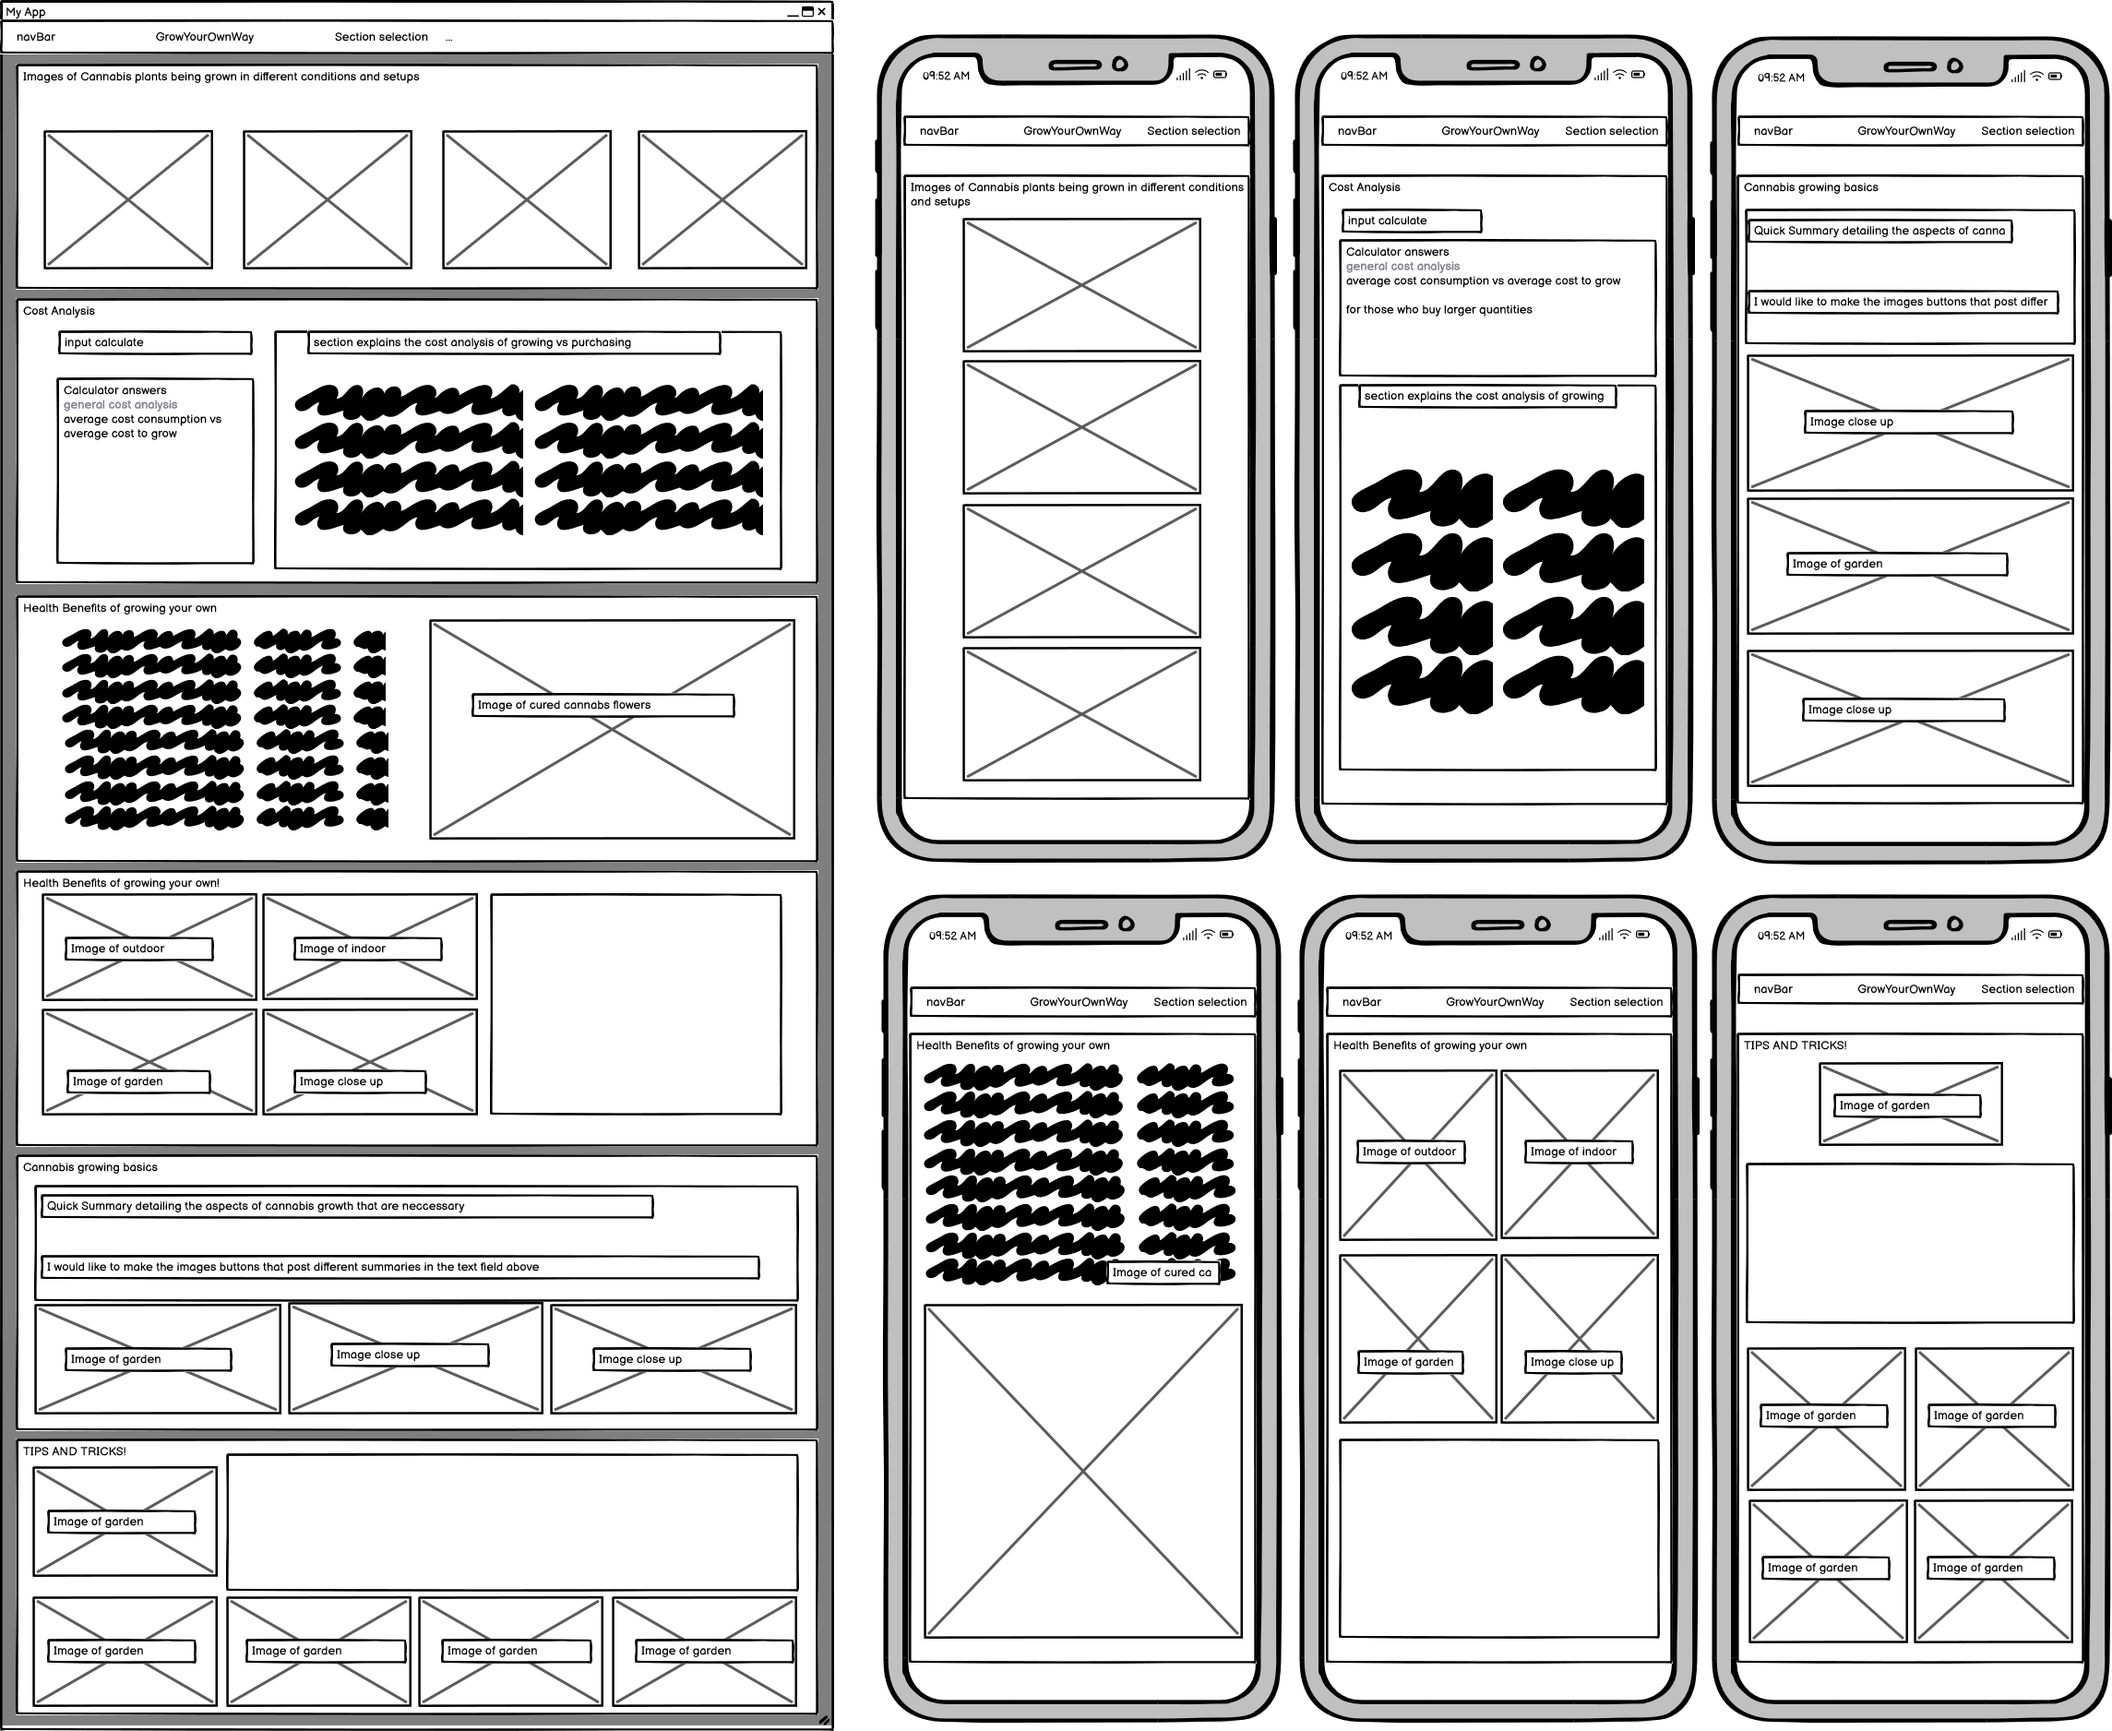
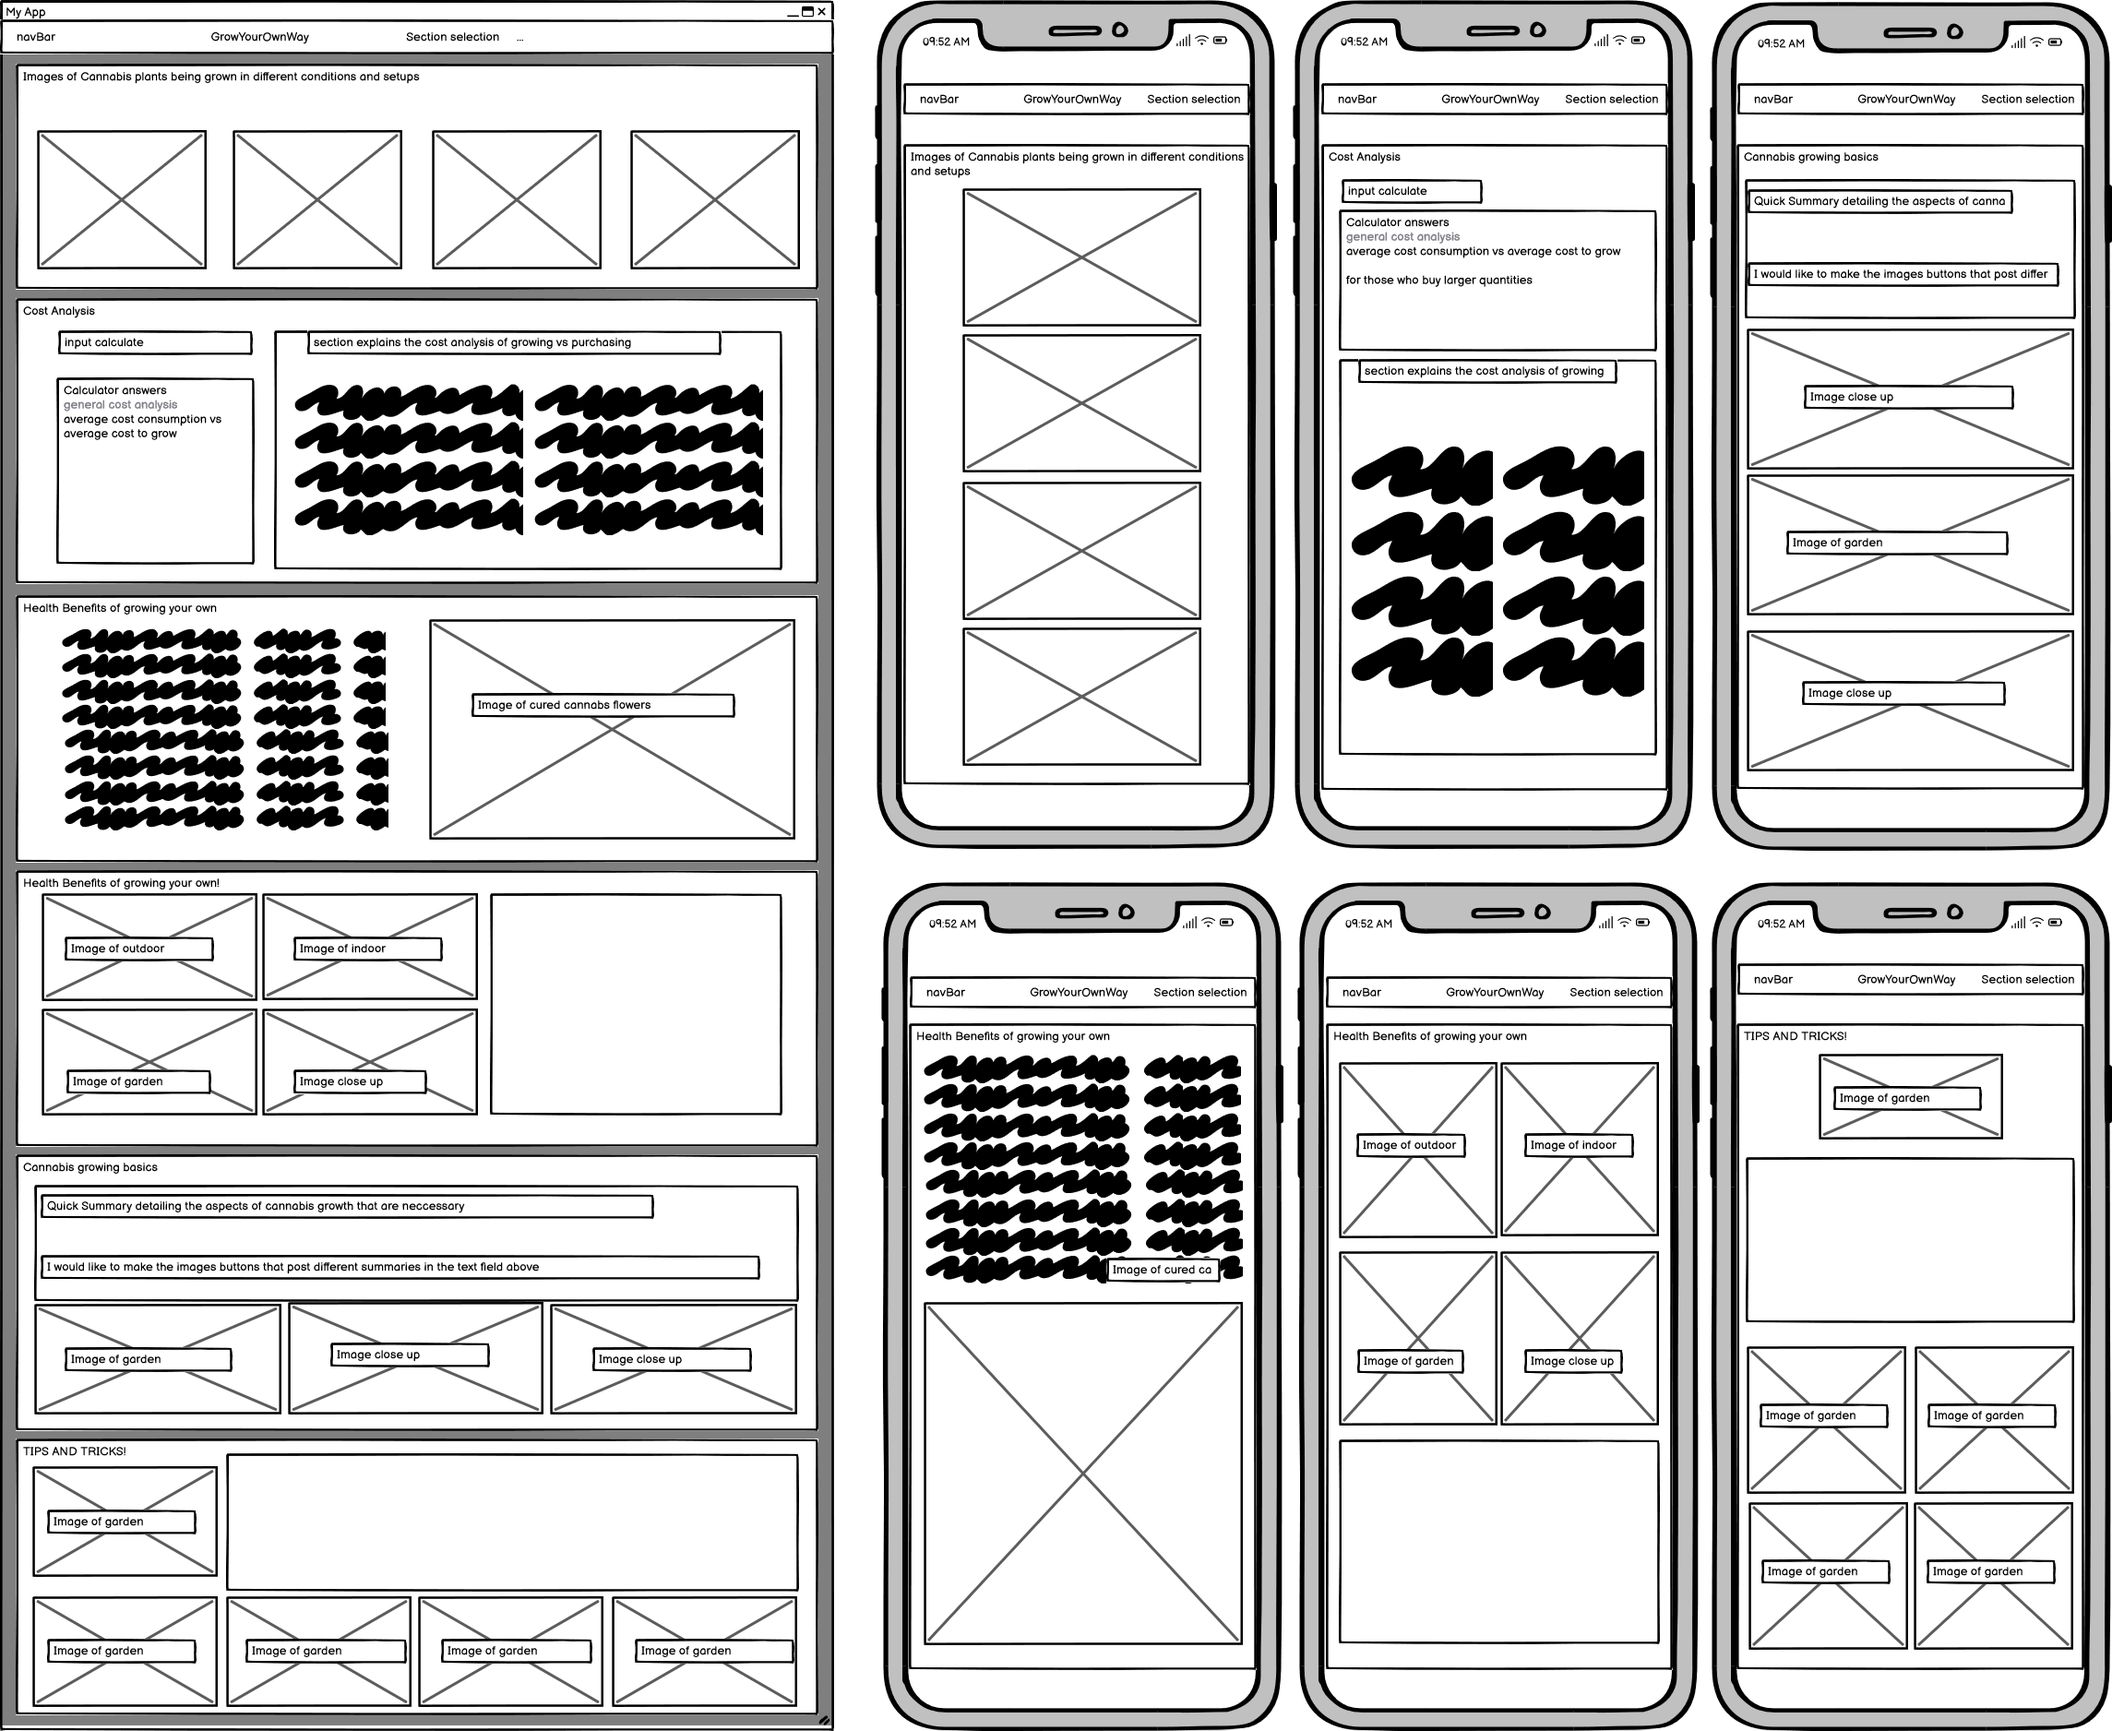
Made adjustment to wireframe so that its content was correctly centered

diff --git a/public_html/documentation/milestone-2.html b/public_html/documentation/milestone-2.html
@@ -71,10 +71,10 @@
 <section>
     <h1 class="fw-bold">WIREFRAME MOCKUP</h1>
 
-    <img class="m-5" src="../../PWP/img/Mobile & Desktop.png" alt="WireFrame" height="auto" width="1200"/></section>
+    <img class="m-5" src="../../PWP/img/Mobile & Desktop.png" alt="WireFrame" height="auto" width="1200"/>
 
-<script src="https://cdn.jsdelivr.net/npm/bootstrap@5.3.0-alpha3/dist/js/bootstrap.bundle.min.js" integrity="sha384-ENjdO4Dr2bkBIFxQpeoTz1HIcje39Wm4jDKdf19U8gI4ddQ3GYNS7NTKfAdVQSZe" crossorigin="anonymous"></script>
-
+    <script src="https://cdn.jsdelivr.net/npm/bootstrap@5.3.0-alpha3/dist/js/bootstrap.bundle.min.js" integrity="sha384-ENjdO4Dr2bkBIFxQpeoTz1HIcje39Wm4jDKdf19U8gI4ddQ3GYNS7NTKfAdVQSZe" crossorigin="anonymous"></script>
+</section>
 </body>
 
 </html>
